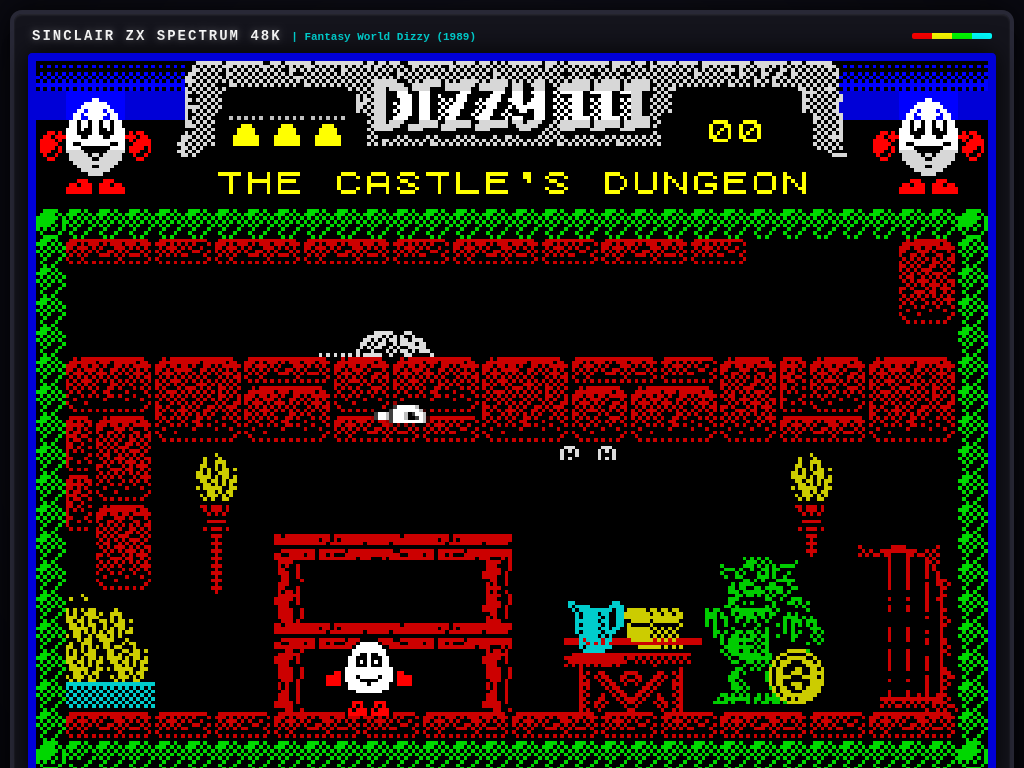
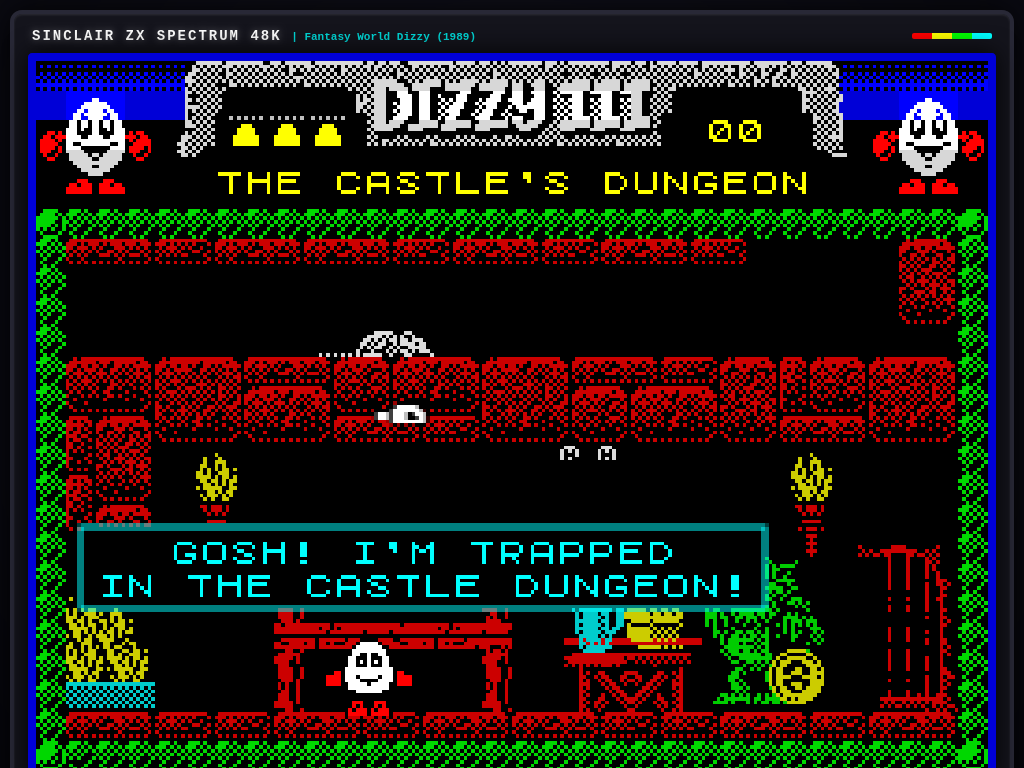
Fix screen transition loops, add cavern ladder, and polish jump reachability

Changed region(s): [[0.0625, 0.6562, 0.75, 0.8125]]

diff --git a/index.html b/index.html
@@ -362,7 +362,7 @@
 
     function wrapZxLines(text, maxChars = 24) {
       const lines = [];
-      const paras = String(text).split('\n');
+      const paras = String(text).replace(/\\n/g, '\n').split('\n');
       for (const para of paras) {
         if (!para.trim()) {
           lines.push('');
@@ -561,7 +561,7 @@
         if (x <= 184 && curY <= 100) return 96;
         // Bunk bed shelves (one-way platforms when falling)
         if (x >= 60 && x <= 126 && isFalling) {
-          if (curY <= 128) return 124;
+          if (curY <= 130) return 128;
           if (curY <= 156) return 152;
         }
         // Table (one-way platform when falling)
@@ -569,8 +569,8 @@
         return 176;
       }
       if (room === 1) {
-        // Upper cavern ledge
-        if (x <= 150 && curY <= 64) return 60;
+        // Upper cavern ledge (reliable one-way platform)
+        if (x <= 152 && (curY <= 68 || (isFalling && curY <= 72))) return 60;
         // Stepped rocks
         if (x >= 96 && x < 112) return 144;
         if (x >= 112 && x < 136) return 152;
@@ -578,9 +578,9 @@
         return 176;
       }
       if (room === 2) {
-        // Overhead balconies (only if already on or above them)
-        if (x <= 72 && curY <= 90) return 88;
-        if (x >= 184 && curY <= 90) return 88;
+        // Overhead balconies (reliable one-way platforms when descending)
+        if (x <= 72 && (curY <= 96 || (isFalling && curY <= 106))) return 88;
+        if (x >= 184 && (curY <= 96 || (isFalling && curY <= 106))) return 88;
         // Grand Symmetrical Staircase
         if (x >= 88 && x <= 168) return 104; // Center top landing
         if ((x >= 72 && x < 88) || (x > 168 && x <= 184)) return 120; // Step 3
@@ -599,8 +599,8 @@
 
     function isClimbable(room, x, y) {
       if (room === 1) {
-        // Cavern ladder connecting rock base to upper ledge
-        return (x >= 140 && x <= 156 && y >= 58 && y <= 164);
+        // Cavern ladder connecting rock base (y=144) to upper ledge (y=60)
+        return (x >= 140 && x <= 160 && y >= 56 && y <= 150);
       }
       return false;
     }
@@ -794,21 +794,21 @@
 
       // ROOM 3 (Moat & Portcullis)
       if (room === 3) {
-        if (!STATE.gatorTied && p.x >= 70 && p.x <= 130 && p.y <= 140) {
+        if (!STATE.gatorTied && p.x >= 75 && p.x <= 145 && p.y <= 144) {
           if (curItem === 'rope' || hasItem('rope')) {
             STATE.gatorTied = true;
             removeItem('rope');
             sound.coin();
-            showDialog("YOU NIMBLY TIE THE ROPE\nAROUND THE GATOR'S SNOUT!\n\nIT CAN NO LONGER BITE!\nYOU CAN SAFELY USE IT\nAS A STEPPING STONE!");
+            showDialog("YOU NIMBLY TIE THE ROPE\\nAROUND THE GATOR\'S SNOUT!\\n\\nIT CAN NO LONGER BITE!\\nYOU CAN SAFELY USE IT\\nAS A STEPPING STONE!");
             return;
           } else {
-            showDialog("A SNAP-HAPPY GATOR GUARDS\nTHE CASTLE MOAT!\nYOU NEED TO TIE ITS JAWS!");
+            showDialog("A SNAP-HAPPY GATOR GUARDS\\nTHE CASTLE MOAT!\\nYOU NEED TO TIE ITS JAWS\\nBEFORE YOU CAN CROSS!");
             return;
           }
         }
 
         if (!STATE.portcullisRaised && p.x > 160) {
-          showDialog("THE HEAVY PORTCULLIS\nBARS THE EXIT!\nFIND A LEVER INSIDE THE\nCASTLE TO OPEN IT!");
+          showDialog("THE HEAVY PORTCULLIS\\nBARS THE EXIT!\\nFIND A LEVER INSIDE THE\\nCASTLE TO OPEN IT!");
           return;
         }
       }
@@ -870,11 +870,17 @@
         if (moveLeft && !moveRight) {
           p.x -= 1.2;
           p.facing = -1;
-          if (p.x < 140) p.isClimbing = false;
+          if (p.x < 140) {
+            p.isClimbing = false;
+            if (p.y <= 68) {
+              p.y = 60;
+              p.isGrounded = true;
+            }
+          }
         } else if (moveRight && !moveLeft) {
           p.x += 1.2;
           p.facing = 1;
-          if (p.x > 156) p.isClimbing = false;
+          if (p.x > 160) p.isClimbing = false;
         }
 
         if (p.isClimbing) return;
@@ -955,10 +961,10 @@
         }
       }
 
-      // Room 0: Solid brick ceiling bump (above cell x <= 184)
+      // Room 0: Solid brick ceiling bump (under arch at y=96)
       if (STATE.room === 0 && p.vy < 0 && p.x <= 184) {
-        if (p.y - 20 <= 112 && oldY - 20 > 110) {
-          p.y = 132;
+        if (p.y - 20 <= 96 && oldY - 20 > 92) {
+          p.y = 117;
           p.vy = 0.5; // Bumps head and falls
         }
       }
@@ -1000,29 +1006,41 @@
       p.x = Math.max(8, Math.min(248, p.x));
 
       // 7. Room Transitions
+      function changeRoom(newRoom, newX, newY, newFacing) {
+        STATE.room = newRoom;
+        p.x = newX;
+        p.y = newY;
+        p.vx = 0;
+        p.vy = 0;
+        p.facing = newFacing;
+        p.isGrounded = true;
+        p.isJumping = false;
+        p.isRolling = false;
+        p.rollAngle = 0;
+        p.isClimbing = false;
+        p.walkFrame = 0;
+        p.walkTimer = 0;
+      }
+
       if (p.x <= 10) {
         if (STATE.room === 0) {
           if (STATE.fireExtinguished) {
-            STATE.room = 1;
-            p.x = 232;
-            p.y = 176;
-            p.vx = 0;
+            changeRoom(1, 220, 176, -1);
           } else {
-            p.x = 10;
+            p.x = 12;
+            p.vx = 0;
           }
         } else if (STATE.room === 2) {
-          // Return to Dungeon
-          STATE.room = 0;
-          p.x = 224;
-          p.y = 176;
-          p.vx = 0;
+          // Return to Dungeon from Entrance Hall
+          changeRoom(0, 220, 176, -1);
         } else if (STATE.room === 3) {
           // Freedom exit
           if (STATE.coins >= 5) {
             triggerVictory();
           } else {
-            showSpeech('NEED ALL 5 COINS!\n(' + STATE.coins + '/5 COLLECTED)');
-            p.x = 14;
+            showSpeech('NEED ALL 5 COINS!\\n(' + STATE.coins + '/5 COLLECTED)');
+            p.x = 16;
+            p.vx = 0;
           }
         }
       }
@@ -1030,50 +1048,39 @@
       if (p.x >= 238) {
         if (STATE.room === 0) {
           if (STATE.trollBribed) {
-            STATE.room = 2;
-            p.x = 18;
-            p.y = 168;
-            p.vx = 0;
+            changeRoom(2, 24, 168, 1);
           } else {
-            p.x = 238;
+            p.x = 236;
+            p.vx = 0;
           }
         } else if (STATE.room === 1) {
           // Return to Dungeon through fireplace
-          STATE.room = 0;
-          p.x = 24;
-          p.y = 176;
-          p.vx = 0;
+          changeRoom(0, 24, 176, 1);
         } else if (STATE.room === 2) {
-          // Enter Moat from Castle
-          STATE.room = 3;
-          p.x = 224;
-          p.y = 160;
-          p.vx = 0;
+          // Enter Moat from Castle Entrance Hall
+          changeRoom(3, 220, 160, -1);
         } else if (STATE.room === 3) {
-          // Return to Castle from Moat
-          STATE.room = 2;
-          p.x = 224;
-          p.y = 168;
-          p.vx = 0;
+          // Return to Castle Entrance Hall from Moat
+          changeRoom(2, 220, 168, -1);
         }
       }
 
       // 8. Hazards
       // Room 0: Roaring flames
       if (STATE.room === 0 && !STATE.fireExtinguished && p.x <= 36 && p.y >= 160) {
-        killPlayer("YOU WERE BURNT\nBY THE ROARING FLAMES!");
+        killPlayer("YOU WERE BURNT\\nBY THE ROARING FLAMES!");
       }
       // Room 1: Deep water
       if (STATE.room === 1 && p.x <= 96 && p.y >= 164) {
-        killPlayer("YOU FELL IN THE WATER\nAND DROWNED!");
+        killPlayer("YOU FELL IN THE WATER\\nAND DROWNED!");
       }
       // Room 3: Moat water
-      if (STATE.room === 3 && p.x >= 48 && p.x <= 168 && p.y >= 148) {
-        killPlayer("YOU FELL IN THE MOAT\nAND DROWNED!");
+      if (STATE.room === 3 && p.x >= 48 && p.x <= 168 && p.y >= 152) {
+        killPlayer("YOU FELL IN THE MOAT\\nAND DROWNED!");
       }
       // Room 3: Snap-happy alligator
-      if (STATE.room === 3 && !STATE.gatorTied && p.x >= 92 && p.x <= 126 && p.y <= 140) {
-        killPlayer("THE GATOR HAS YOU\nFOR LUNCH!");
+      if (STATE.room === 3 && !STATE.gatorTied && p.x >= 102 && p.x <= 118 && p.y <= 142) {
+        killPlayer("THE GATOR HAS YOU\\nFOR LUNCH!");
       }
 
       checkCoinPickup();
@@ -1085,26 +1092,31 @@
       STATE.player.hurtTimer = 30;
       showDialog(msg, () => {
         if (STATE.lives <= 0) {
-          showDialog("GAME OVER!\nDIZZY HAS LOST ALL LIVES.\n\nPRESS [R] TO RESTART\nTHE ADVENTURE.");
+          showDialog("GAME OVER!\\nDIZZY HAS LOST ALL LIVES.\\n\\nPRESS [R] TO RESTART\\nTHE ADVENTURE.");
         } else {
           // Safe respawn in current room
           if (STATE.room === 0) {
             STATE.player.x = 90;
             STATE.player.y = 176;
+            STATE.player.facing = 1;
           } else if (STATE.room === 1) {
             STATE.player.x = 220;
             STATE.player.y = 176;
+            STATE.player.facing = -1;
           } else if (STATE.room === 2) {
             STATE.player.x = 128;
             STATE.player.y = 104;
+            STATE.player.facing = 1;
           } else if (STATE.room === 3) {
-            STATE.player.x = 224;
+            STATE.player.x = 220;
             STATE.player.y = 160;
+            STATE.player.facing = -1;
           }
           STATE.player.vx = 0;
           STATE.player.vy = 0;
           STATE.player.isRolling = false;
           STATE.player.isJumping = false;
+          STATE.player.isClimbing = false;
           STATE.player.isGrounded = true;
           STATE.player.rollAngle = 0;
           updateHud();
@@ -1214,6 +1226,17 @@
             }
             ctx.restore();
           }
+        }
+      }
+
+      // ROOM 1 (Behind Fireplace)
+      if (STATE.room === 1) {
+        // Authentic ZX Spectrum ladder connecting rocks to upper cavern ledge
+        ctx.fillStyle = '#ffffff';
+        ctx.fillRect(145, 58, 2, 88);
+        ctx.fillRect(155, 58, 2, 88);
+        for (let ly = 64; ly <= 140; ly += 8) {
+          ctx.fillRect(147, ly, 8, 2);
         }
       }
 
@@ -1470,7 +1493,8 @@
         });
       }));
       updateHud();
-      showSpeech("GOSH! I'M TRAPPED\nIN THE CASTLE DUNGEON!");
+      render();
+      showSpeech("GOSH! I'M TRAPPED\\nIN THE CASTLE DUNGEON!");
       requestAnimationFrame(gameLoop);
     }
 
